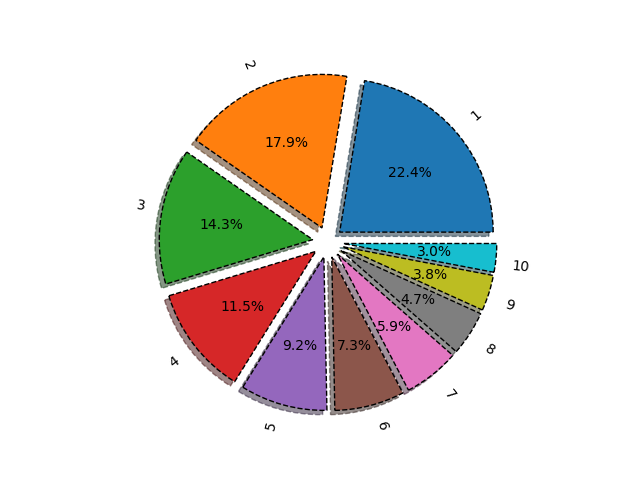
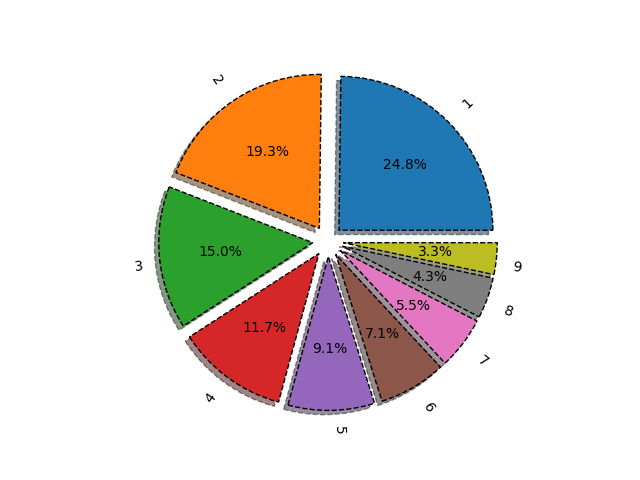
Adjust pie chart parameters to match data length
Corrected the `labels` and `explode` parameters in `main.py` to align with the actual number of data points in `Am_lst_2`, resolving a `ValueError`.

Replit-Commit-Author: Agent
Replit-Commit-Session-Id: aa46d9ba-8c64-4c77-be68-8ced87318bd0
Replit-Commit-Checkpoint-Type: full_checkpoint
Replit-Commit-Event-Id: 65da9183-a8c5-456d-a164-22b6c2cf4df5
Replit-Helium-Checkpoint-Created: true

diff --git a/main.py b/main.py
@@ -94,8 +94,8 @@ ax.axis("equal")
 plt.savefig("chart9.png")
 # Круговые диаграммы 2
 vals = Am_lst_2
-labels = [str(x) for x in range(1, 11)]
-explode = (0.1, 0.1, 0.1, 0.1, 0.1, 0.1, 0.1, 0.1, 0.1, 0.1)
+labels = [str(x) for x in range(1, 10)]
+explode = (0.1, 0.1, 0.1, 0.1, 0.1, 0.1, 0.1, 0.1, 0.1)
 fig, ax = plt.subplots()
 ax.pie(
     vals,
